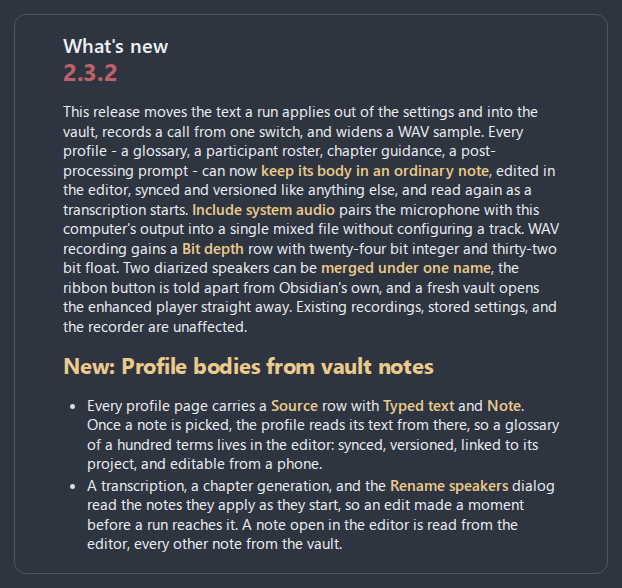
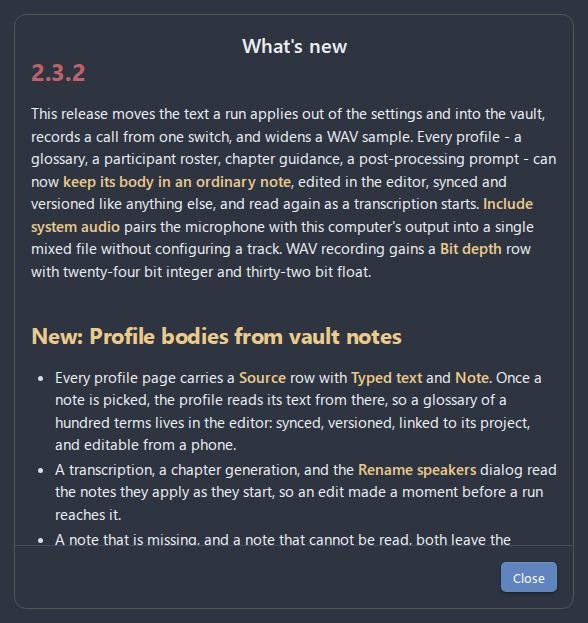
fix(ui): keep a long dialog's title and Close button in view
Obsidian's `.modal` is itself the scroll container, so a body longer than the
window takes the dialog's title, its close button and its Close action out of
view with the text. The What's new dialog shows up to ten releases of notes and
met that on its first open: the only way out still on screen was Escape.

Answered with the layout Obsidian already ships rather than with a height of
the plugin's own. `mod-scrollable-content` stops the dialog element scrolling,
turns the body into the scroll container, and pins a `modal-button-container`
beneath it as a footer, so the title and the close button stay put and the
notes scroll between them.

Functional Changes:
- Add `PluginModal.makeBodyScrollable()`, which classes the dialog with
  Obsidian's `mod-scrollable-content` and builds the action row into a pinned
  `modal-button-container` instead of into the scrolling body
- Route `renderActions` through that host, defaulting to the body, so the other
  eleven dialogs keep the DOM they have today
- Take the pinned footer down and drop the class in `onClose`, so a frame that
  cleans up after itself does not rely on Obsidian dropping the element
- Call it from `ReleaseNotesModal` for the notes state only, leaving the
  one-paragraph empty state as it was
- Unload the Markdown renderer's component before the body is emptied rather
  than after it, so its children tear down against the DOM they were built over
[…]

Changed region(s): [[0.0, 0.0612, 0.9796, 0.9796], [0.0612, 0.0, 0.949, 0.0306], [0.398, 0.0612, 0.6122, 0.0918]]

diff --git a/src/ui/PluginModal.ts b/src/ui/PluginModal.ts
@@ -18,6 +18,17 @@
 import { Modal, Notice, Setting } from 'obsidian';
 import type { App, ButtonComponent, TFile } from 'obsidian';
 
+/**
+ * Obsidian's own layout for a dialog whose body can run to any length: the
+ * dialog element stops scrolling, so its title and close button stay put, the
+ * body becomes the scroll container, and a `modal-button-container` beneath it
+ * reads as a footer. Nothing here is the plugin's to style.
+ */
+const SCROLLABLE_CLASS = 'mod-scrollable-content';
+
+/** Obsidian's own class for the footer that layout pins under the body. */
+const ACTIONS_CONTAINER_CLASS = 'modal-button-container';
+
 /** One button in a dialog's action row. */
 export interface DialogAction {
 	/** Button label. */
@@ -48,8 +59,36 @@ export abstract class PluginModal extends Modal {
 	 */
 	protected busy = false;
 
+	/**
+	 * Where {@link renderActions} builds the action row. Null means the body,
+	 * which is where every dialog that fits its window wants it;
+	 * {@link makeBodyScrollable} moves it out so it cannot scroll away with
+	 * the content.
+	 */
+	private actionsHost: HTMLElement | null = null;
+
 	constructor(app: App) {
 		super(app);
+	}
+
+	/**
+	 * Lets the body scroll under a title and an action row that stay put.
+	 *
+	 * By default the dialog element is the scroll container, so a body longer
+	 * than the window takes the title, the close button and the Close action
+	 * out of view with it and leaves Escape as the only way out that is still
+	 * on screen. Obsidian ships the layout that answers this, so the dialog is
+	 * classed rather than styled: the body scrolls, and the action row is
+	 * built into the footer Obsidian pins beneath it.
+	 *
+	 * Called before {@link renderActions}, by a dialog whose content has no
+	 * bound - several releases of notes, a long report.
+	 */
+	protected makeBodyScrollable(): void {
+		this.modalEl.addClass(SCROLLABLE_CLASS);
+		this.actionsHost = this.modalEl.createDiv({
+			cls: ACTIONS_CONTAINER_CLASS,
+		});
 	}
 
 	/**
@@ -95,7 +134,7 @@ export abstract class PluginModal extends Modal {
 	 * @param actions - The buttons, primary action first
 	 */
 	protected renderActions(...actions: DialogAction[]): void {
-		const row = new Setting(this.contentEl);
+		const row = new Setting(this.actionsHost ?? this.contentEl);
 		row.settingEl.addClass('aar-modal-actions');
 		for (const action of actions) {
 			row.addButton((button) => {
@@ -159,5 +198,11 @@ export abstract class PluginModal extends Modal {
 
 	override onClose(): void {
 		this.contentEl.empty();
+		// A pinned footer sits outside the body, so emptying the body leaves
+		// it standing. Obsidian drops the dialog element on close, but a frame
+		// that cleans up after itself must not rely on that.
+		this.actionsHost?.remove();
+		this.actionsHost = null;
+		this.modalEl.removeClass(SCROLLABLE_CLASS);
 	}
 }

diff --git a/tests/unit/PluginModal.test.ts b/tests/unit/PluginModal.test.ts
@@ -10,11 +10,14 @@
 import { Notice } from 'obsidian';
 import type { App, TFile } from 'obsidian';
 import { PluginModal } from 'src/ui/PluginModal';
-import { el } from '../helpers/dom';
+import { el, maybeEl, textOf } from '../helpers/dom';
 import { MODAL } from '../helpers/selectors';
 
 /** A concrete dialog exposing the protected frame for assertion. */
 class TestModal extends PluginModal {
+	scrollableBody(): void {
+		this.makeBodyScrollable();
+	}
 	renderTitle(title: string): void {
 		this.setDialogTitle(title);
 	}
@@ -161,5 +164,50 @@ describe('PluginModal shared body pieces', () => {
 		modal.renderEmpty('Nothing to do here.');
 		modal.onClose();
 		expect(modal.contentEl.childElementCount).toBe(0);
+	});
+});
+
+describe('PluginModal scrollable body', () => {
+	it('keeps the action row out of the body that scrolls', () => {
+		// A body longer than the window otherwise scrolls the Close button
+		// away with the content it belongs under, leaving the dialog with no
+		// way out still on screen.
+		const modal = createModal();
+
+		modal.scrollableBody();
+		modal.actions({ text: 'Close', onClick: () => undefined });
+
+		expect(maybeEl(modal.contentEl, 'button')).toBeNull();
+		expect(textOf(el(modal.modalEl, MODAL.actions), 'button')).toBe(
+			'Close',
+		);
+	});
+
+	it('asks Obsidian for the layout rather than styling one', () => {
+		const modal = createModal();
+
+		modal.scrollableBody();
+
+		expect(modal.modalEl.matches(MODAL.scrollableBody)).toBe(true);
+	});
+
+	it('leaves the action row in the body for a dialog that fits', () => {
+		const modal = createModal();
+
+		modal.actions({ text: 'Close', onClick: () => undefined });
+
+		expect(textOf(modal.contentEl, 'button')).toBe('Close');
+		expect(maybeEl(modal.modalEl, MODAL.actions)).toBeNull();
+	});
+
+	it('takes the pinned footer down with the body on close', () => {
+		const modal = createModal();
+		modal.scrollableBody();
+		modal.actions({ text: 'Close', onClick: () => undefined });
+
+		modal.onClose();
+
+		expect(maybeEl(modal.modalEl, MODAL.actions)).toBeNull();
+		expect(modal.modalEl.matches(MODAL.scrollableBody)).toBe(false);
 	});
 });

diff --git a/tests/unit/ReleaseNotesModal.test.ts b/tests/unit/ReleaseNotesModal.test.ts
@@ -69,9 +69,37 @@ describe('ReleaseNotesModal with notes to show', () => {
 		const modal = openModal(NOTES);
 		const close = jest.spyOn(modal, 'close');
 
-		el<HTMLButtonElement>(modal.contentEl, 'button').click();
+		el<HTMLButtonElement>(modal.modalEl, 'button').click();
 
 		expect(close).toHaveBeenCalledTimes(1);
+	});
+
+	it('scrolls the notes under a title and a Close that stay put', () => {
+		// Three releases of notes are longer than any window. Scrolling the
+		// dialog as one whole would carry its own title, its close button and
+		// its Close action off the top with the text.
+		const modal = openModal(NOTES);
+
+		expect(modal.modalEl.matches(MODAL.scrollableBody)).toBe(true);
+		expect(maybeEl(modal.contentEl, 'button')).toBeNull();
+		expect(textOf(el(modal.modalEl, MODAL.actions), 'button')).toBe(
+			'Close',
+		);
+	});
+
+	it('unloads the renderer while the DOM it built over is still there', () => {
+		// Obsidian's render children tear down against the elements they were
+		// built over, so the unload has to run before the body is emptied.
+		const modal = openModal(NOTES);
+		const body = el(modal.contentEl, MODAL.releaseNotes);
+		const stillAttached = jest.fn();
+		renderedInto()?.register(() => {
+			stillAttached(modal.contentEl.contains(body));
+		});
+
+		modal.onClose();
+
+		expect(stillAttached).toHaveBeenCalledWith(true);
 	});
 
 	it('unloads the component the renderer attached its children to', () => {

diff --git a/tests/mocks/obsidian.ts b/tests/mocks/obsidian.ts
@@ -1055,16 +1055,31 @@ export class Modal {
 	app: App;
 	contentEl: HTMLElement;
 
+	/**
+	 * The dialog's own element, holding the title and the body the way
+	 * Obsidian nests them. A frame that pins a title or a footer classes this
+	 * element and puts the footer beside the body under it, so the mock has to
+	 * carry the same three elements rather than two loose ones.
+	 */
+	modalEl: HTMLElement = addObsidianDomExtensions(
+		document.createElement('div'),
+	);
+
+	titleEl: HTMLElement = addObsidianDomExtensions(
+		document.createElement('div'),
+	);
+
 	constructor(app: App) {
 		this.app = app;
 		this.contentEl = addObsidianDomExtensions(
 			document.createElement('div'),
 		);
+		this.modalEl.addClass('modal');
+		this.titleEl.addClass('modal-title');
+		this.contentEl.addClass('modal-content');
+		this.modalEl.appendChild(this.titleEl);
+		this.modalEl.appendChild(this.contentEl);
 	}
-
-	titleEl: HTMLElement = addObsidianDomExtensions(
-		document.createElement('div'),
-	);
 
 	// Prototype methods, not instance spies: a test that wants to watch these
 	// spies the instance (or the prototype, to catch a modal it never sees),

diff --git a/src/ui/ReleaseNotesModal.ts b/src/ui/ReleaseNotesModal.ts
@@ -61,6 +61,10 @@ export class ReleaseNotesModal extends PluginModal {
 			);
 			return;
 		}
+		// An upgrade that spanned several releases is longer than any window,
+		// and a dialog that scrolls as one whole carries its own title and its
+		// own Close button off the top with the text.
+		this.makeBodyScrollable();
 		this.renderer.load();
 		const body = this.contentEl.createDiv({ cls: RENDERED_CLASS });
 		// The source path is what the renderer resolves a relative internal
@@ -92,7 +96,10 @@ export class ReleaseNotesModal extends PluginModal {
 	}
 
 	override onClose(): void {
-		super.onClose();
+		// Before the body is emptied, not after: the renderer's children were
+		// built over elements inside it and tear down against them, so an
+		// unload that runs once the DOM is gone unloads them against nothing.
 		this.renderer.unload();
+		super.onClose();
 	}
 }

diff --git a/styles/styles.css b/styles/styles.css
@@ -1182,6 +1182,17 @@ button.aar-player-marker-row {
 	display: none;
 }
 
+.modal-button-container > .aar-modal-actions {
+	/* Pinned under a scrolling body, the row sits inside Obsidian's own footer,
+	   which already carries the separator and the padding. What the setting
+	   item it is built from brings of its own would draw a second box inside
+	   the first. */
+	margin: 0;
+	padding: 0;
+	background-color: transparent;
+	border: none;
+}
+
 .aar-modal-config {
     color: var(--text-muted);
     font-size: 0.9em;

diff --git a/tests/helpers/selectors.ts b/tests/helpers/selectors.ts
@@ -180,6 +180,13 @@ export const MODAL = {
 	 * styling of its own, so this is what it can be found by.
 	 */
 	releaseNotes: '.markdown-rendered',
+	/**
+	 * The footer a scrollable dialog pins under its body, holding the action
+	 * row. Obsidian's own class, for the same reason as the one above.
+	 */
+	actions: '.modal-button-container',
+	/** A dialog whose body scrolls under a title and a footer that stay put. */
+	scrollableBody: '.mod-scrollable-content',
 } as const;
 
 /** The transcription queue dialog. */

diff --git a/docs/getting-started.md b/docs/getting-started.md
@@ -70,7 +70,7 @@ Enabling the plugin opens its settings tab straight away (Obsidian 1.7.2 and lat
 
 The first time a new version of the plugin runs, a **What's new** dialog opens with everything that changed since the version you were on, newest release first. Each release is headed by its version number, and the text is the release note written for it, so an upgrade that skipped three releases reads as three sections rather than one.
 
-![The What's new dialog after an update, showing the release headed by its version number above the notes written for it](images/modal-release-notes.png)
+![The What's new dialog after an update, showing the release headed by its version number above the notes written for it, with the dialog title above the notes and the Close button below them, both staying in place while the notes scroll between them](images/modal-release-notes.png)
 
 The dialog appears once per version. It never appears on a fresh install, and it never appears the first time you run a version of the plugin that has this dialog at all: in both cases there is nothing on record to compare against, so the plugin remembers the version you are on and shows the notes from the next update onwards.
 
